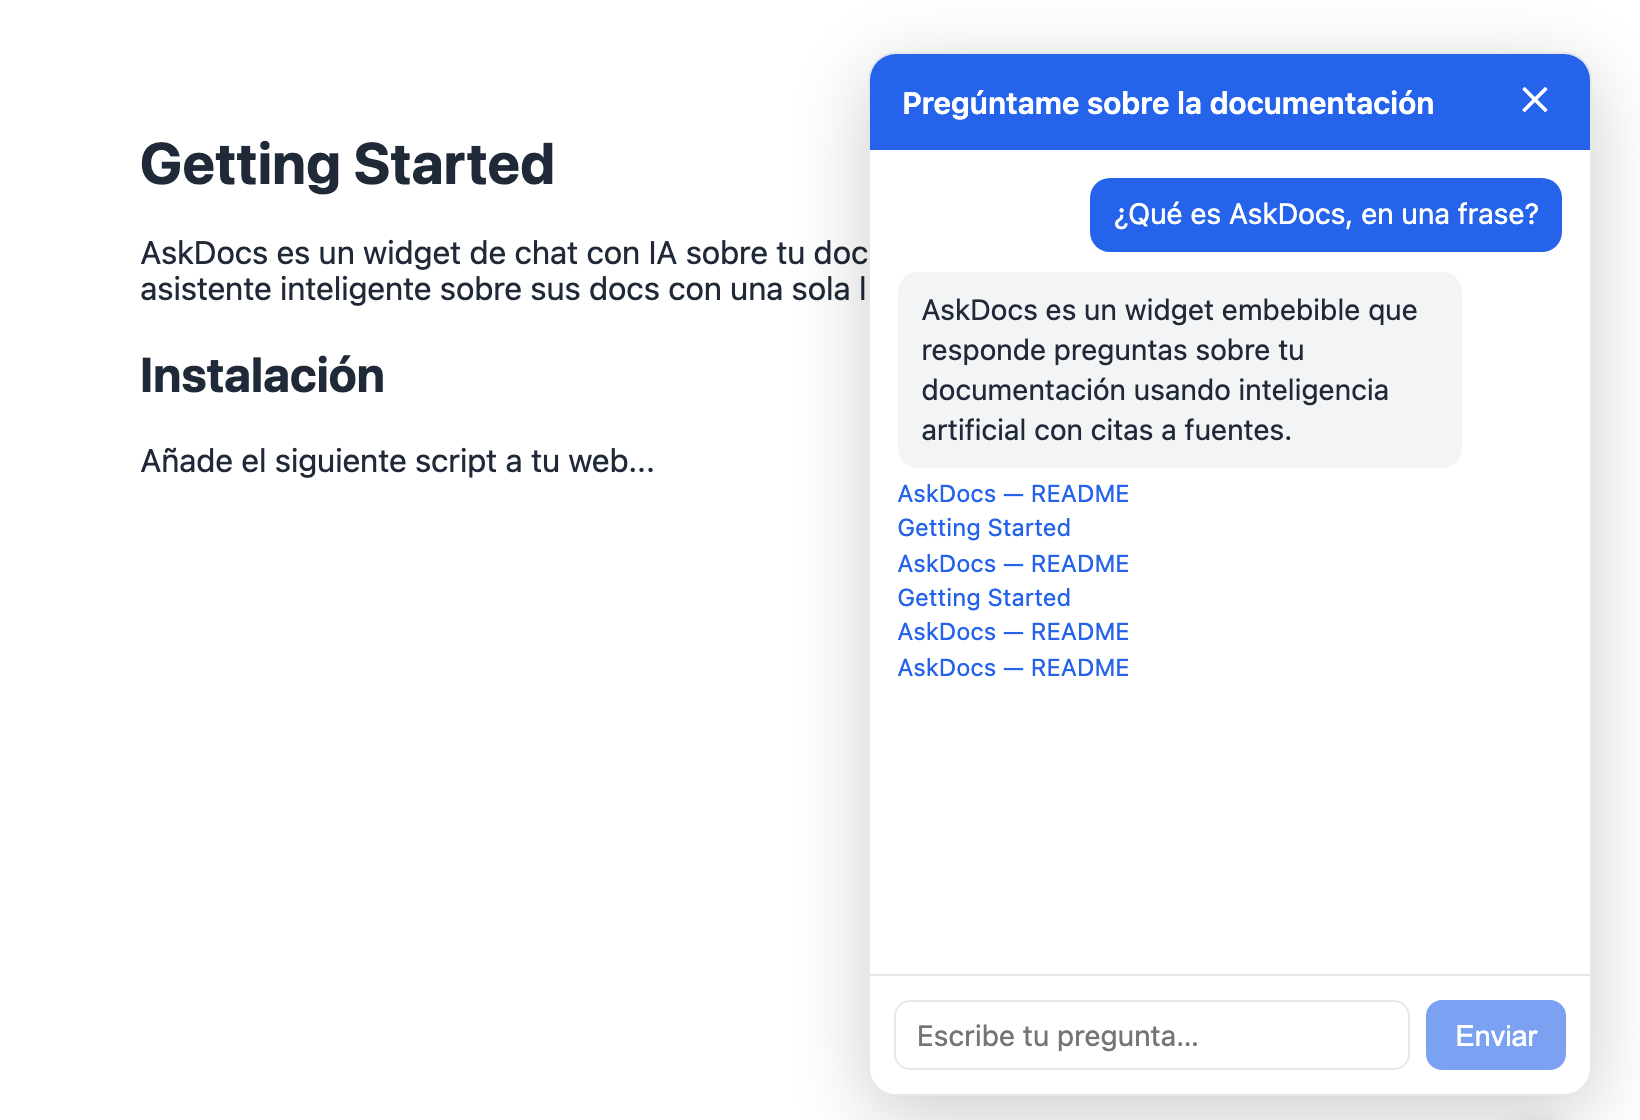
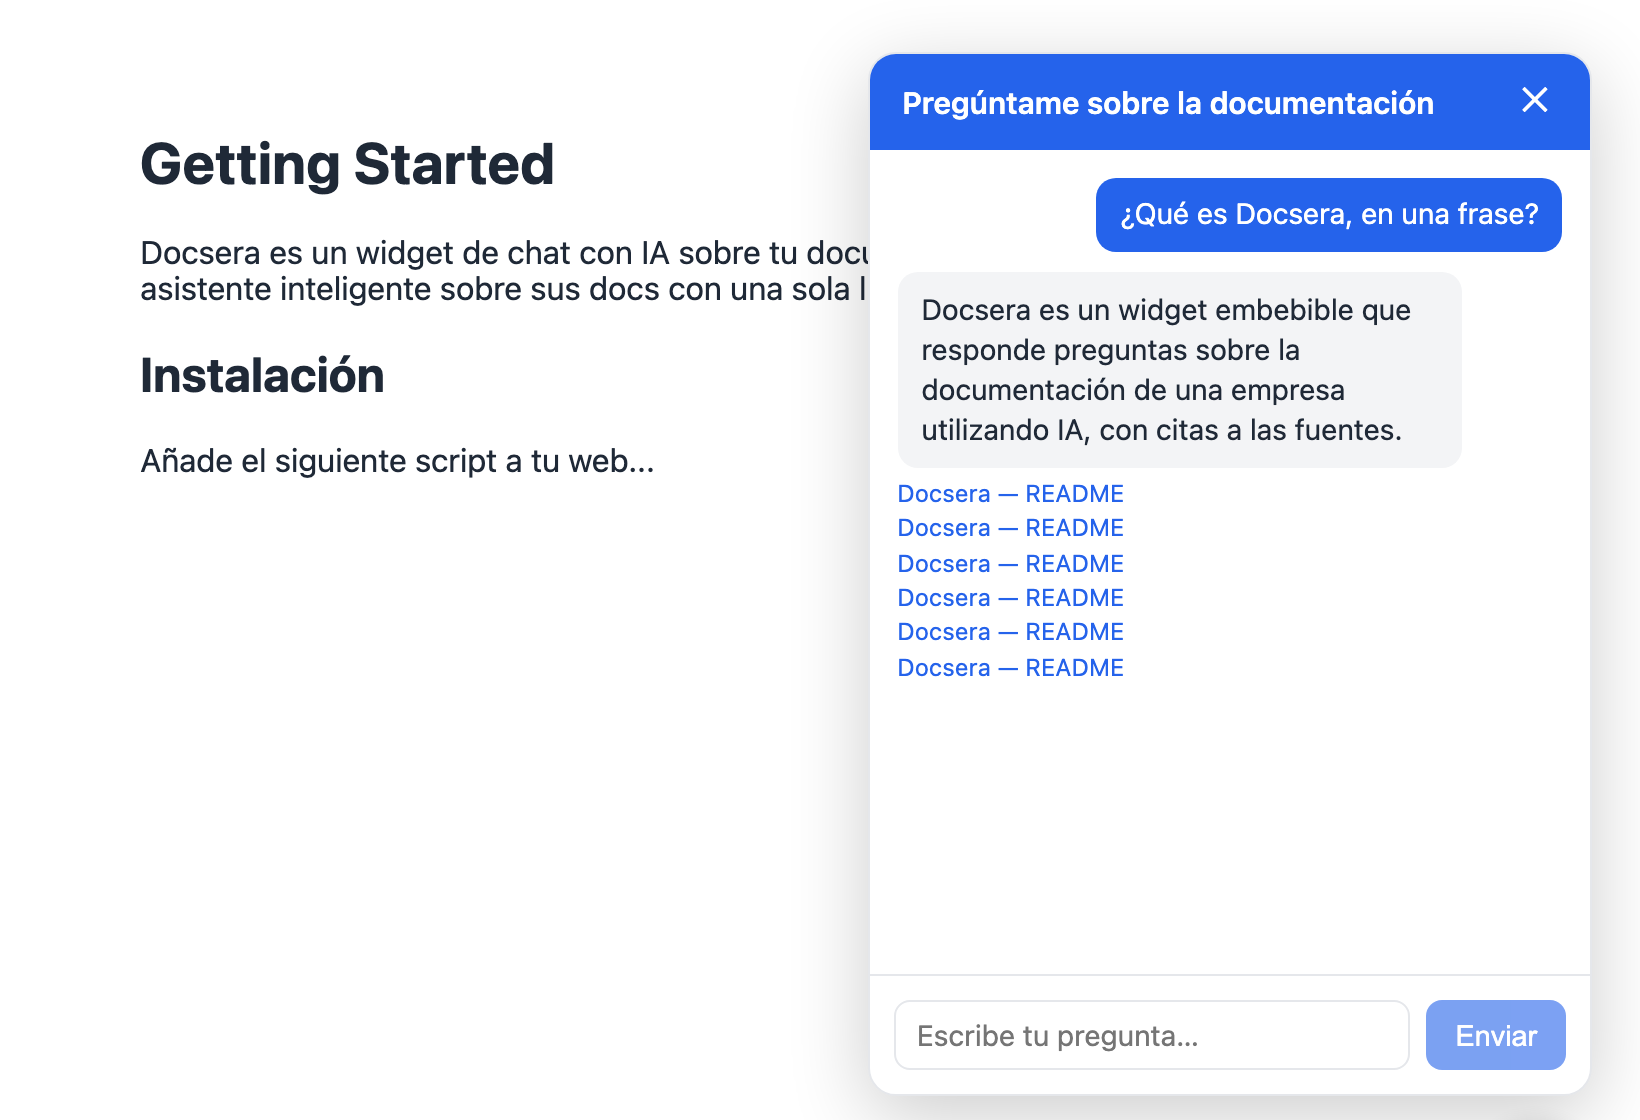
Rename: AskDocs -> Docsera
"AskDocs" colisionaba con un producto comercial existente que hace
practicamente lo mismo (askdocs.com). Renombrado a Docsera: repo de
GitHub, scope de paquetes (@user/*), custom element del widget
(<docsera-widget>), nombres de contenedor Docker, credenciales de
Postgres, user-agent del crawler, y todo el texto en README/CLAUDE.md.

De paso, arregla comentarios obsoletos en docker-compose.yml (referencia
a "pnpm up" ya renombrado a "compose:up", y una nota de que el dashboard
"se anadira en Fase 2" cuando ya existe).

Probado de extremo a extremo tras el rename: volumen de Postgres
recreado con las credenciales nuevas, migraciones aplicadas limpio,
widget con el nuevo custom element funcionando, dashboard funcionando.

Pendiente (del usuario, no automatizable): registrar el dominio de
verdad -- solo se verifico por busqueda web que el nombre no colisiona,
no es una comprobacion de whois real.

Changed region(s): [[0.5287, 0.25, 0.8707, 0.625], [0.0933, 0.2188, 0.5287, 0.25], [0.653, 0.1562, 0.8085, 0.2188]]

diff --git a/packages/widget/src/widget.ts b/packages/widget/src/widget.ts
@@ -1,7 +1,7 @@
 import { LitElement, html, css, type PropertyValues } from "lit";
 import type { ChatMessage, ChatResponse, Source } from "./types.js";
 
-const SESSION_STORAGE_KEY = "askdocs-session-id";
+const SESSION_STORAGE_KEY = "docsera-session-id";
 
 function loadSessionId(): string {
   try {
@@ -24,7 +24,7 @@ function sourceHref(source: Source): string {
   return source.anchor ? `${source.url}#${source.anchor}` : source.url;
 }
 
-export class AskDocsWidget extends LitElement {
+export class DocseraWidget extends LitElement {
   static properties = {
     server: { type: String },
     heading: { type: String },
@@ -41,13 +41,13 @@ export class AskDocsWidget extends LitElement {
       bottom: 1.5rem;
       z-index: 2147483000;
       font-family: -apple-system, BlinkMacSystemFont, "Segoe UI", Roboto, sans-serif;
-      --askdocs-primary: #2563eb;
-      --askdocs-primary-fg: #ffffff;
-      --askdocs-bg: #ffffff;
-      --askdocs-fg: #1f2937;
-      --askdocs-muted: #6b7280;
-      --askdocs-border: #e5e7eb;
-      --askdocs-radius: 14px;
+      --docsera-primary: #2563eb;
+      --docsera-primary-fg: #ffffff;
+      --docsera-bg: #ffffff;
+      --docsera-fg: #1f2937;
+      --docsera-muted: #6b7280;
+      --docsera-border: #e5e7eb;
+      --docsera-radius: 14px;
     }
 
     .fab {
@@ -55,8 +55,8 @@ export class AskDocsWidget extends LitElement {
       height: 56px;
       border-radius: 50%;
       border: none;
-      background: var(--askdocs-primary);
-      color: var(--askdocs-primary-fg);
+      background: var(--docsera-primary);
+      color: var(--docsera-primary-fg);
       cursor: pointer;
       display: flex;
       align-items: center;
@@ -76,14 +76,14 @@ export class AskDocsWidget extends LitElement {
       max-width: calc(100vw - 2rem);
       height: 520px;
       max-height: calc(100vh - 6rem);
-      background: var(--askdocs-bg);
-      color: var(--askdocs-fg);
-      border-radius: var(--askdocs-radius);
+      background: var(--docsera-bg);
+      color: var(--docsera-fg);
+      border-radius: var(--docsera-radius);
       box-shadow: 0 10px 40px rgba(0, 0, 0, 0.2);
       display: flex;
       flex-direction: column;
       overflow: hidden;
-      border: 1px solid var(--askdocs-border);
+      border: 1px solid var(--docsera-border);
     }
 
     header {
@@ -91,8 +91,8 @@ export class AskDocsWidget extends LitElement {
       align-items: center;
       justify-content: space-between;
       padding: 0.85rem 1rem;
-      background: var(--askdocs-primary);
-      color: var(--askdocs-primary-fg);
+      background: var(--docsera-primary);
+      color: var(--docsera-primary-fg);
       font-weight: 600;
       font-size: 0.95rem;
     }
@@ -117,7 +117,7 @@ export class AskDocsWidget extends LitElement {
     }
 
     .empty {
-      color: var(--askdocs-muted);
+      color: var(--docsera-muted);
       font-size: 0.9rem;
       text-align: center;
       margin-top: 2rem;
@@ -149,8 +149,8 @@ export class AskDocsWidget extends LitElement {
     }
 
     .message.user .bubble {
-      background: var(--askdocs-primary);
-      color: var(--askdocs-primary-fg);
+      background: var(--docsera-primary);
+      color: var(--docsera-primary-fg);
     }
 
     .message.assistant .bubble {
@@ -165,14 +165,14 @@ export class AskDocsWidget extends LitElement {
     .sources {
       margin-top: 0.3rem;
       font-size: 0.75rem;
-      color: var(--askdocs-muted);
+      color: var(--docsera-muted);
       display: flex;
       flex-direction: column;
       gap: 0.15rem;
     }
 
     .sources a {
-      color: var(--askdocs-primary);
+      color: var(--docsera-primary);
       text-decoration: none;
     }
 
@@ -182,7 +182,7 @@ export class AskDocsWidget extends LitElement {
 
     .pending .bubble {
       background: #f3f4f6;
-      color: var(--askdocs-muted);
+      color: var(--docsera-muted);
       font-style: italic;
     }
 
@@ -190,12 +190,12 @@ export class AskDocsWidget extends LitElement {
       display: flex;
       gap: 0.5rem;
       padding: 0.75rem;
-      border-top: 1px solid var(--askdocs-border);
+      border-top: 1px solid var(--docsera-border);
     }
 
     input {
       flex: 1;
-      border: 1px solid var(--askdocs-border);
+      border: 1px solid var(--docsera-border);
       border-radius: 8px;
       padding: 0.5rem 0.65rem;
       font-size: 0.9rem;
@@ -204,13 +204,13 @@ export class AskDocsWidget extends LitElement {
     }
 
     input:focus {
-      outline: 2px solid var(--askdocs-primary);
+      outline: 2px solid var(--docsera-primary);
       outline-offset: 1px;
     }
 
     form button {
-      background: var(--askdocs-primary);
-      color: var(--askdocs-primary-fg);
+      background: var(--docsera-primary);
+      color: var(--docsera-primary-fg);
       border: none;
       border-radius: 8px;
       padding: 0 0.9rem;
@@ -378,4 +378,4 @@ function closeIcon() {
   </svg>`;
 }
 
-customElements.define("askdocs-widget", AskDocsWidget);
+customElements.define("docsera-widget", DocseraWidget);

diff --git a/packages/widget/src/entry.ts b/packages/widget/src/entry.ts
@@ -1,11 +1,11 @@
 import "./widget.js";
-import type { AskDocsWidget } from "./widget.js";
+import type { DocseraWidget } from "./widget.js";
 
 const currentScript = document.currentScript as HTMLScriptElement | null;
 const server = currentScript?.dataset["server"];
 
-if (server && !document.querySelector("askdocs-widget")) {
-  const el = document.createElement("askdocs-widget") as AskDocsWidget;
+if (server && !document.querySelector("docsera-widget")) {
+  const el = document.createElement("docsera-widget") as DocseraWidget;
   el.setAttribute("server", server);
   const heading = currentScript?.dataset["heading"];
   if (heading) el.setAttribute("heading", heading);

diff --git a/packages/widget/public/index.html b/packages/widget/public/index.html
@@ -3,7 +3,7 @@
   <head>
     <meta charset="utf-8" />
     <meta name="viewport" content="width=device-width, initial-scale=1" />
-    <title>AskDocs widget — demo local</title>
+    <title>Docsera widget — demo local</title>
     <style>
       body {
         font-family: -apple-system, BlinkMacSystemFont, "Segoe UI", Roboto, sans-serif;
@@ -17,7 +17,7 @@
   <body>
     <h1>Página de documentación de ejemplo</h1>
     <p>
-      Esta página simula la doc de un cliente cualquiera. El widget de AskDocs se instala con una
+      Esta página simula la doc de un cliente cualquiera. El widget de Docsera se instala con una
       sola línea de <code>&lt;script&gt;</code> (abajo del todo) y aparece flotando en la esquina
       inferior derecha.
     </p>

diff --git a/packages/dashboard/index.html b/packages/dashboard/index.html
@@ -3,7 +3,7 @@
   <head>
     <meta charset="utf-8" />
     <meta name="viewport" content="width=device-width, initial-scale=1" />
-    <title>AskDocs — Panel de administración</title>
+    <title>Docsera — Panel de administración</title>
   </head>
   <body>
     <div id="app"></div>

diff --git a/packages/dashboard/src/App.tsx b/packages/dashboard/src/App.tsx
@@ -9,7 +9,7 @@ export function App() {
   if (!token) {
     return (
       <div class="login">
-        <h1>AskDocs — Panel de administración</h1>
+        <h1>Docsera — Panel de administración</h1>
         <form
           onSubmit={(event) => {
             event.preventDefault();

diff --git a/packages/dashboard/src/api.ts b/packages/dashboard/src/api.ts
@@ -13,7 +13,7 @@ export interface ConversationsResponse {
   total: number;
 }
 
-const TOKEN_STORAGE_KEY = "askdocs-admin-token";
+const TOKEN_STORAGE_KEY = "docsera-admin-token";
 
 export function getStoredToken(): string | null {
   try {

diff --git a/packages/server/src/index.ts b/packages/server/src/index.ts
@@ -29,5 +29,5 @@ app.route("/", adminRoute);
 app.route("/", dashboardRoute);
 
 serve({ fetch: app.fetch, port: PORT }, (info) => {
-  console.log(`AskDocs server listening on http://localhost:${info.port}`);
+  console.log(`Docsera server listening on http://localhost:${info.port}`);
 });

diff --git a/packages/server/src/ingest/fetchSource.ts b/packages/server/src/ingest/fetchSource.ts
@@ -3,7 +3,7 @@ import * as cheerio from "cheerio";
 export const MAX_PAGES = 200;
 const FETCH_CONCURRENCY = 3;
 const FETCH_TIMEOUT_MS = 15_000;
-const USER_AGENT = "AskDocsBot/0.0.1";
+const USER_AGENT = "DocseraBot/0.0.1";
 
 export interface RawDocument {
   url: string | null;

diff --git a/packages/server/src/routes/widget.ts b/packages/server/src/routes/widget.ts
@@ -12,7 +12,7 @@ const widgetJs = existsSync(WIDGET_PATH) ? readFileSync(WIDGET_PATH, "utf-8") : 
 widgetRoute.get("/widget.js", (c) => {
   if (!widgetJs) {
     return c.text(
-      "widget.js no encontrado. Ejecuta `pnpm --filter @askdocs/widget build` y copia " +
+      "widget.js no encontrado. Ejecuta `pnpm --filter @docsera/widget build` y copia " +
         "dist/widget.js a packages/server/public/widget.js.",
       404,
     );

diff --git a/CLAUDE.md b/CLAUDE.md
@@ -1,10 +1,10 @@
-# CLAUDE.md — Contexto del proyecto AskDocs
+# CLAUDE.md — Contexto del proyecto Docsera
 
 Este archivo te da el contexto para trabajar en este repositorio. Léelo al
 empezar cada sesión. Trabajas de forma incremental y por fases: no adelantes
 trabajo de fases futuras salvo que se te pida.
 
-## Qué es AskDocs
+## Qué es Docsera
 
 Widget open source de chat con IA sobre documentación propia. Cualquiera puede
 instalar un asistente inteligente sobre sus docs con una sola línea de
@@ -22,12 +22,15 @@ Analogía: "el chat de soporte de Intercom, pero open source y self-hosted".
 - **Framework del server:** Hono + @hono/node-server.
 - **Base de datos:** Postgres + pgvector (un solo servicio para datos y vectores).
 - **Estructura:** monorepo con pnpm workspaces.
-- **Nombre de trabajo:** AskDocs (a confirmar antes del lanzamiento público).
+- **Nombre:** Docsera (antes "AskDocs" — renombrado por colisión con un
+  producto comercial existente del mismo nombre). Repo, paquetes y
+  contenedores ya renombrados. Pendiente: registrar el dominio de verdad
+  (solo se comprobó por búsqueda web, no un whois real).
 
 ## Estructura del monorepo
 
 ```
-askdocs/
+docsera/
 ├── package.json            # raíz, workspaces + scripts (db:up, build...)
 ├── pnpm-workspace.yaml
 ├── tsconfig.base.json      # config TS estricta compartida
@@ -39,7 +42,7 @@ askdocs/
     └── dashboard/  # panel: conversaciones y preguntas sin respuesta
 ```
 
-Cada paquete usa el prefijo `@askdocs/`. Los `tsconfig.json` de cada paquete
+Cada paquete usa el prefijo `@docsera/`. Los `tsconfig.json` de cada paquete
 deben extender `../../tsconfig.base.json`.
 
 ## Principios de diseño (mantener siempre)
@@ -96,7 +99,9 @@ cómo probarlo antes de seguir.
 ## Antes de publicar el repo
 
 - [x] Reemplazar `LICENSE` con el texto oficial.
-- [ ] Confirmar el nombre definitivo y disponibilidad de dominio.
+- [x] Nombre definitivo elegido: Docsera. Repo/paquetes/contenedores
+      renombrados.
+- [ ] Registrar el dominio de verdad (solo comprobado por búsqueda web).
 
 ## Estado actual
 

diff --git a/README.md b/README.md
@@ -1,6 +1,6 @@
 <div align="center">
 
-# AskDocs
+# Docsera
 
 **Chat con IA sobre tu documentación. Open source, self-hosted, en una línea.**
 
@@ -19,14 +19,14 @@ Tus datos no salen de tu servidor. Funciona con Anthropic, OpenAI o modelos loca
 
 ## Demo
 
-![Widget de AskDocs respondiendo una pregunta con citas a la fuente](./docs/demo.png)
+![Widget de Docsera respondiendo una pregunta con citas a la fuente](./docs/demo.png)
 
 *(Captura real del widget corriendo contra el stack local. Pendiente
 sustituir por un GIF grabado en condiciones antes del lanzamiento.)*
 
 ## ¿Qué es?
 
-AskDocs es un widget embebible que responde preguntas sobre tu documentación usando IA, **con citas a las fuentes**. Piensa en el chat de soporte de Intercom, pero open source y que puedes alojar tú mismo.
+Docsera es un widget embebible que responde preguntas sobre tu documentación usando IA, **con citas a las fuentes**. Piensa en el chat de soporte de Intercom, pero open source y que puedes alojar tú mismo.
 
 - **Instalación en < 10 minutos** con Docker Compose.
 - **Privacy-first**: en modo self-hosted, los datos nunca salen de tu servidor (salvo las llamadas al proveedor de LLM que tú elijas).
@@ -50,8 +50,8 @@ El `server` es el único servicio que despliegas tú (además de Postgres): sirv
 Requisitos previos: [Docker](https://docs.docker.com/get-docker/) y Docker Compose (incluido en Docker Desktop). Node ≥ 20 y [pnpm](https://pnpm.io) solo si quieres desarrollar en local sin Docker.
 
 ```bash
-git clone https://github.com/mikeljc-dev/askdocs.git
-cd askdocs
+git clone https://github.com/mikeljc-dev/docsera.git
+cd docsera
 cp .env.example .env
 ```
 
@@ -149,9 +149,9 @@ Todas las variables viven en `.env` (plantilla en `.env.example`).
 pnpm install
 pnpm db:up          # solo Postgres+pgvector, vía Docker
 pnpm db:migrate
-pnpm --filter @askdocs/server dev
-pnpm --filter @askdocs/widget dev       # opcional, para trabajar en el widget
-pnpm --filter @askdocs/dashboard dev    # opcional, para trabajar en el dashboard
+pnpm --filter @docsera/server dev
+pnpm --filter @docsera/widget dev       # opcional, para trabajar en el widget
+pnpm --filter @docsera/dashboard dev    # opcional, para trabajar en el dashboard
 ```
 
 ## Roadmap